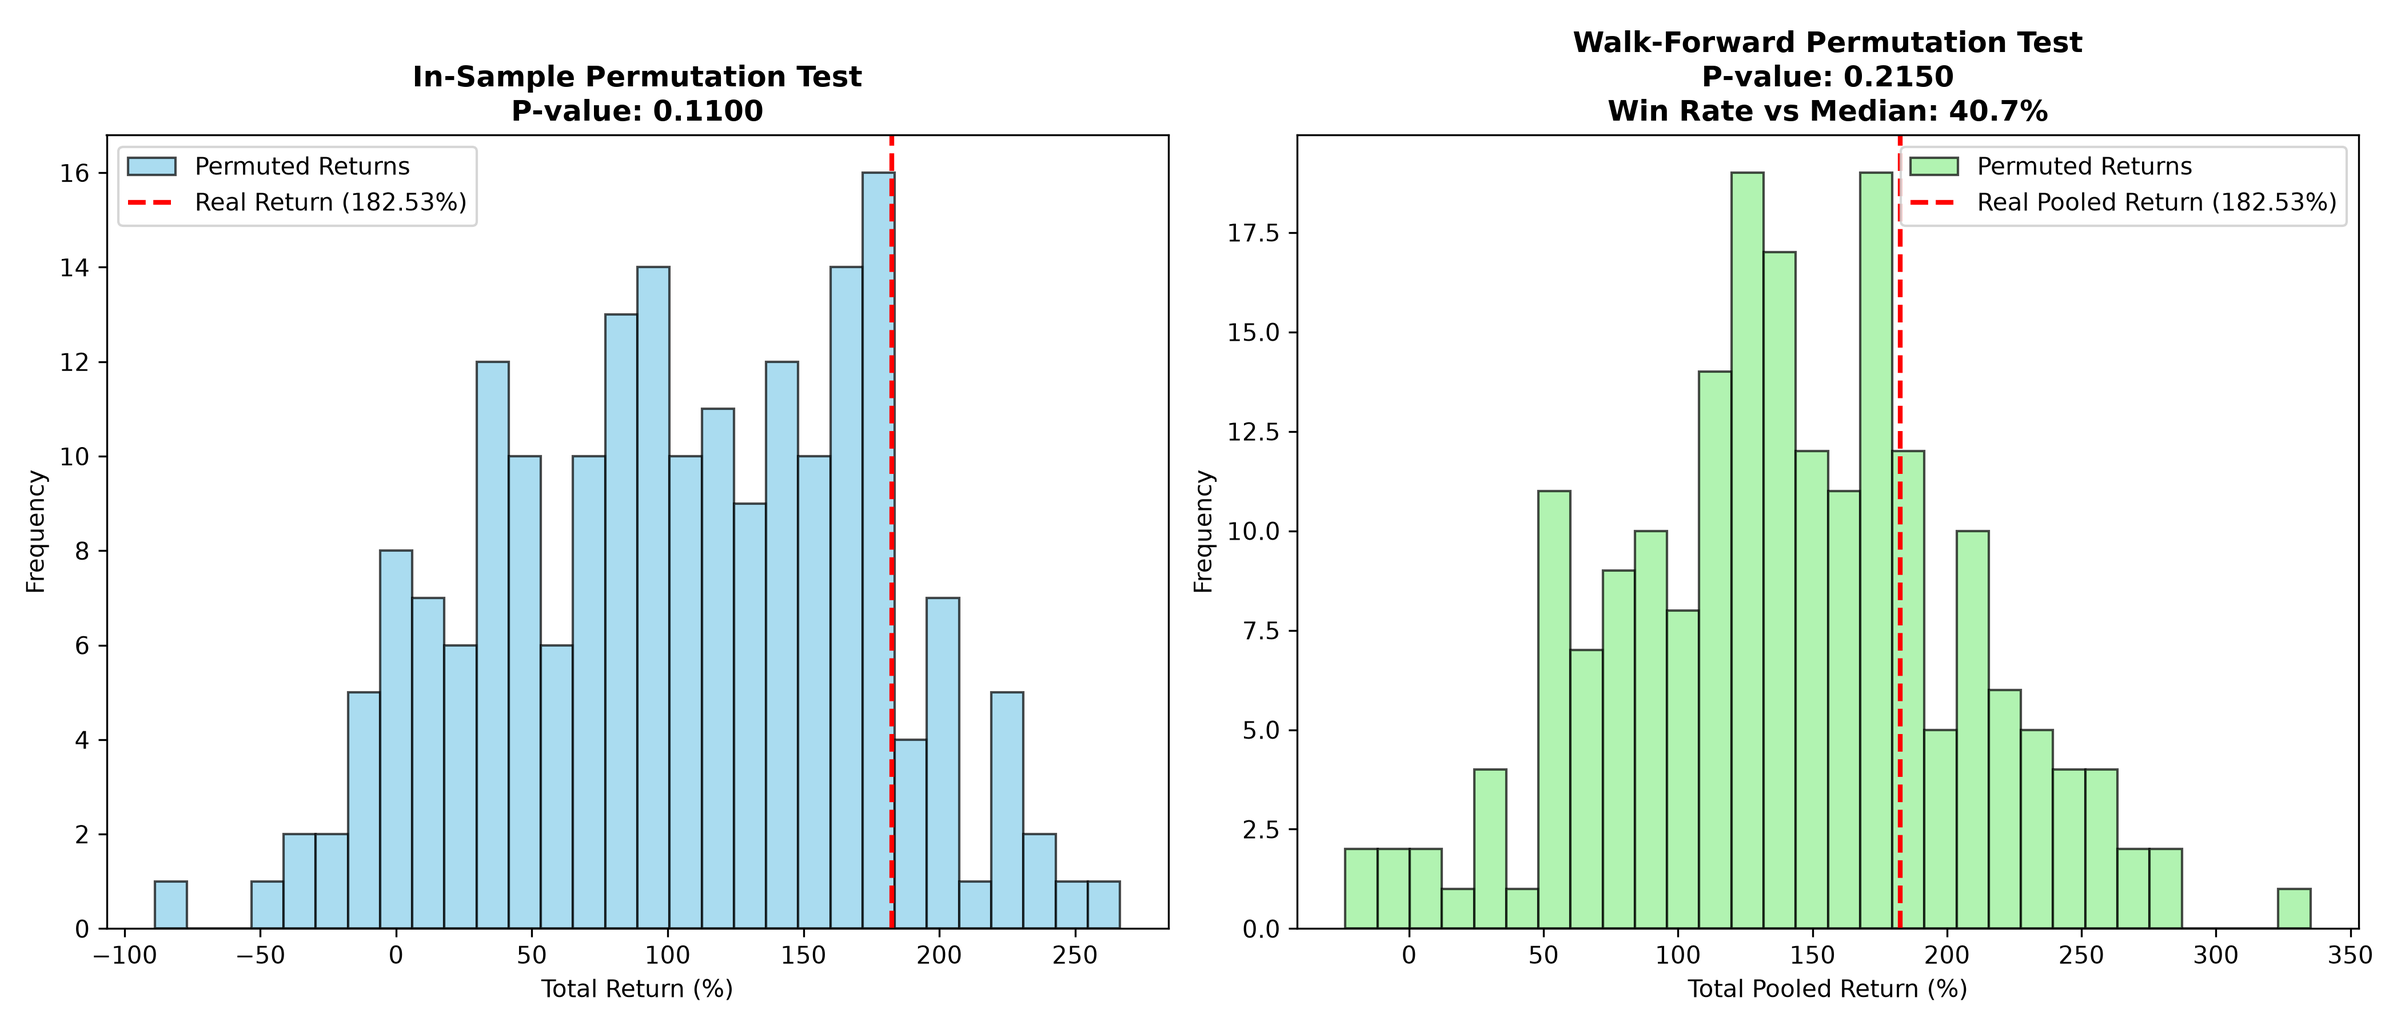
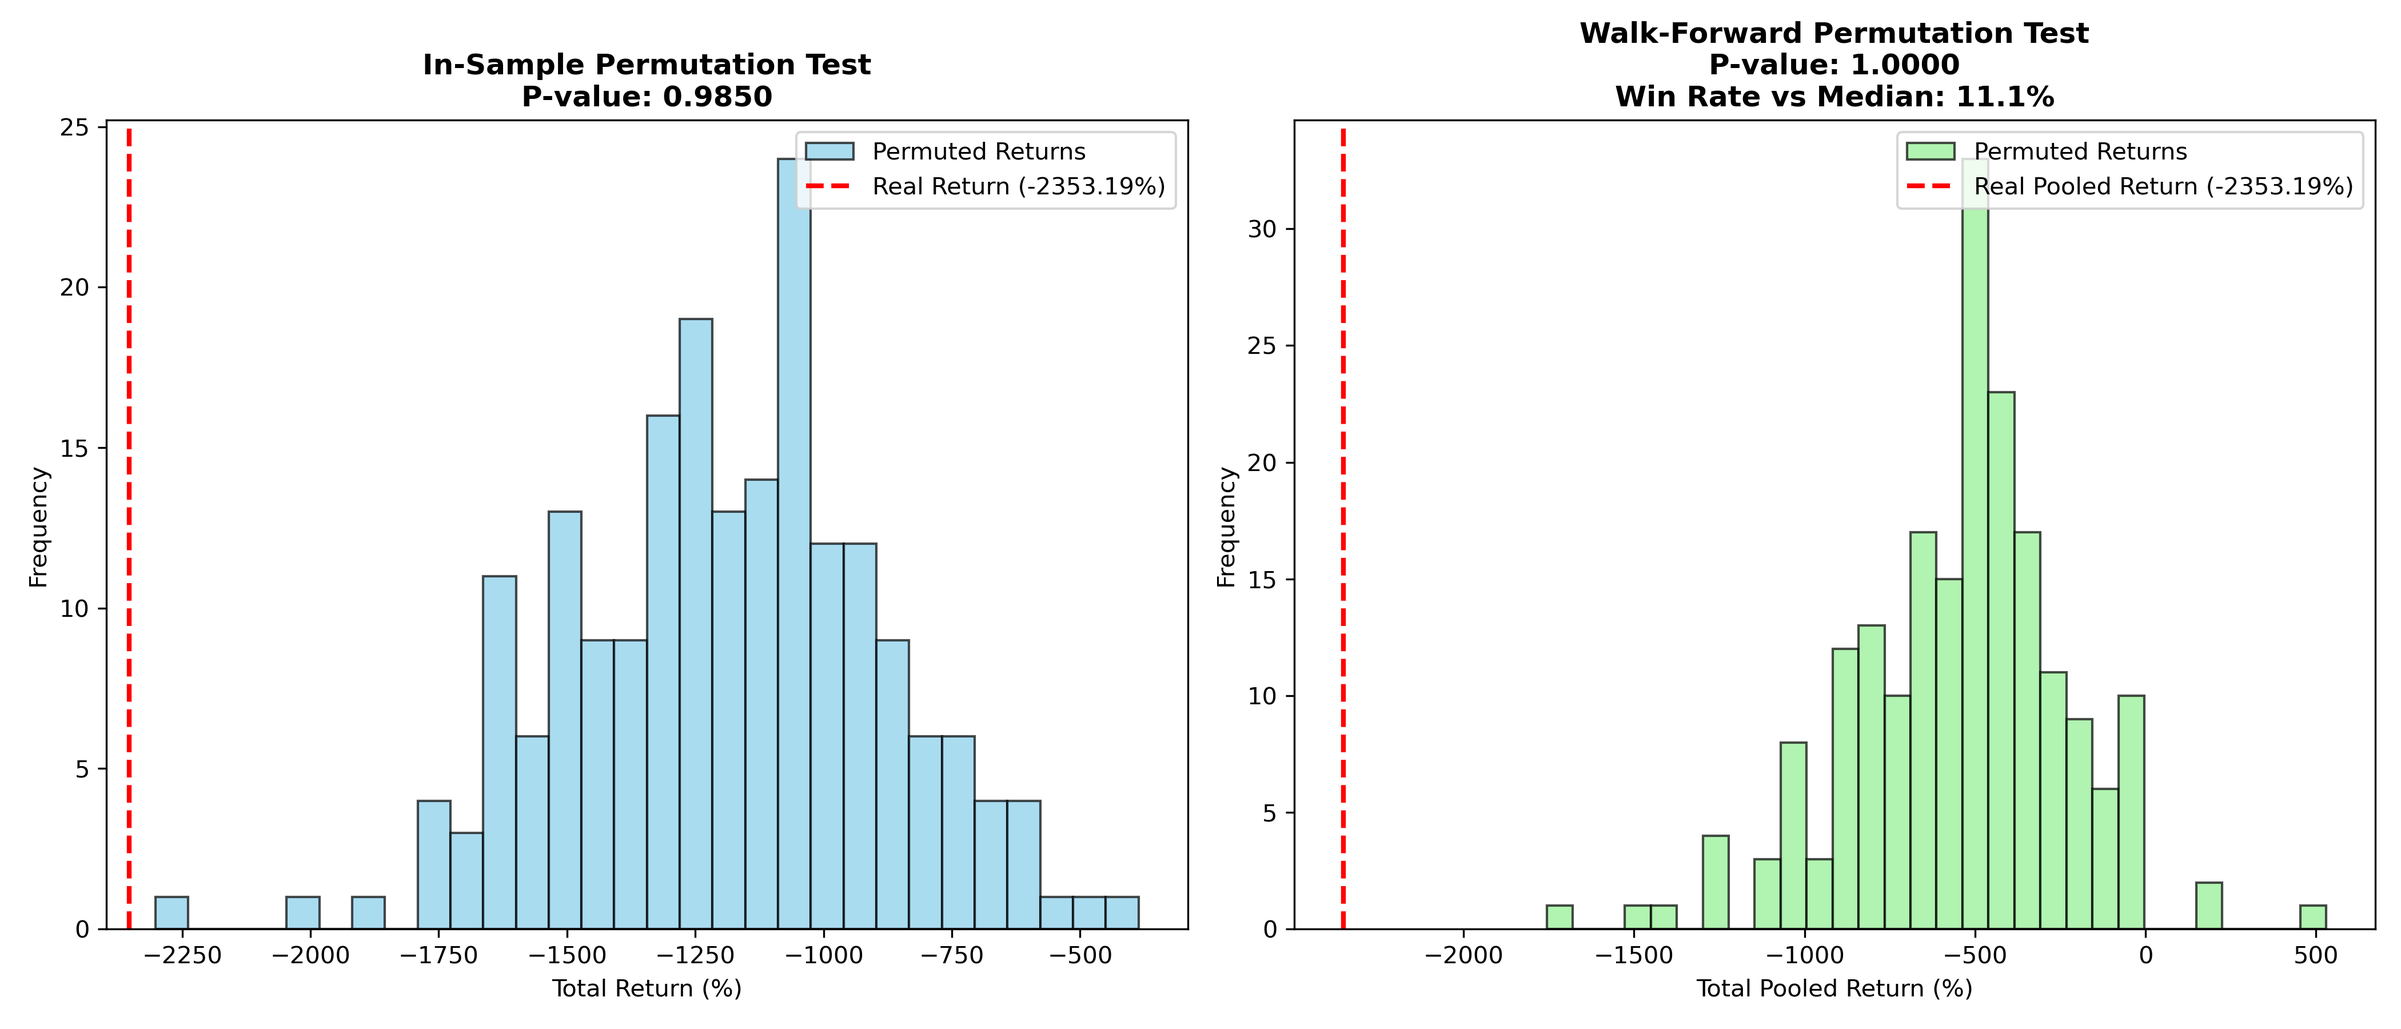
Task 3.1 validation repro + 10x backtest speedup; OSS framework research; viability report (gates fail: IS p=0.985 / WF p=1.000)

diff --git a/src/backtest/run_historic_backtest.py b/src/backtest/run_historic_backtest.py
@@ -1,3 +1,4 @@
+import numpy as np
 import pandas as pd
 from src.risk.fred_macro_provider import FredMacroProvider
 
@@ -16,36 +17,42 @@ def run_backtest_with_params(posts_df, stock_dfs, holding_days, rsi_low, rsi_hig
     current_regime_data = macro_provider.get_regime()
     regime_label = current_regime_data["regime"]
 
+    # Pre-normalize per-ticker frames and date arrays once (semantics-preserving
+    # speedup: replaces a full-frame boolean mask per post with np.searchsorted)
+    ticker_frames = {}
+    ticker_date_arrays = {}
+    for ticker, df in stock_dfs.items():
+        if df is None or df.empty:
+            continue
+        d = df
+        if "Date" not in d.columns:
+            d = d.reset_index()
+            if "Date" not in d.columns and "Datetime" in d.columns:
+                d = d.rename(columns={"Datetime": "Date"})
+        if "Date" not in d.columns:
+            continue
+        if not pd.api.types.is_datetime64_any_dtype(d["Date"]):
+            d["Date"] = pd.to_datetime(d["Date"])
+        ticker_frames[ticker] = d
+        ticker_date_arrays[ticker] = d["Date"].to_numpy()
+
     for idx, row in filtered_posts.iterrows():
         post_date = row["post_date"]
         ticker = row["ticker"]
         sentiment_score = row.get("sentiment_score", 0)
 
-        if ticker not in stock_dfs:
+        if ticker not in ticker_frames:
             continue
-        df = stock_dfs[ticker]
-        if df is None or df.empty:
-            continue
-
-        if "Date" not in df.columns:
-            df = df.reset_index()
-            if "Date" not in df.columns and "Datetime" in df.columns:
-                df.rename(columns={"Datetime": "Date"}, inplace=True)
-        if "Date" not in df.columns:
-            continue
-
-        if not pd.api.types.is_datetime64_any_dtype(df["Date"]):
-            df["Date"] = pd.to_datetime(df["Date"])
+        df = ticker_frames[ticker]
 
         exec_date = pd.to_datetime(post_date) + pd.tseries.offsets.BDay(1)
         exec_date = exec_date.normalize()
 
-        entry_row = df[df["Date"] >= exec_date]
-        if entry_row.empty:
+        pos = int(np.searchsorted(ticker_date_arrays[ticker], np.datetime64(exec_date)))
+        if pos >= len(df):
             continue
 
-        entry_idx = entry_row.index[0]
-        entry_iloc = df.index.get_loc(entry_idx)
+        entry_iloc = pos
 
         # Lookahead Fix: compute decision indicators using the last closed bar
         # before the entry bar
@@ -81,7 +88,8 @@ def run_backtest_with_params(posts_df, stock_dfs, holding_days, rsi_low, rsi_hig
         if score < min_confluence_score:
             continue
 
-        # Fill at Open of entry_idx
+        # Fill at Open of the entry bar
+        entry_idx = df.index[entry_iloc]
         entry_price = df.loc[entry_idx, "Open"]
 
         # ATR slippage (evaluated on t-1 for the entry)

diff --git a/src/backtest/validation.py b/src/backtest/validation.py
@@ -264,9 +264,13 @@ def main():
     wf_real_ret, wf_real_sharpe, wf_p_rets, wf_p_sharpes, wf_pval, wf_win_rate, num_windows = run_walk_forward_test(posts_df, stock_dfs, spy_close)
 
     # Hansen's SPA Test Execution
-    from src.backtest.validators.statistical import StatisticalValidator
+    try:
+        from src.backtest.validators.statistical import StatisticalValidator
+    except Exception as e:
+        print(f"StatisticalValidator unavailable (SPA test skipped): {e}")
+        StatisticalValidator = None
 
-    if len(is_real_ret_series) > 0 and len(spy_ret_series) > 0:
+    if len(is_real_ret_series) > 0 and len(spy_ret_series) > 0 and StatisticalValidator is not None:
         try:
             spa_result = StatisticalValidator.spa_test(is_real_ret_series.values, spy_ret_series.values)
             spa_pval = spa_result.get("p_value", 1.0)
@@ -371,4 +375,5 @@ def main():
         print(f"QuantStats tear sheet generation failed: {e}")
 
 if __name__ == "__main__":
+    np.random.seed(42)  # reproducible permutation draws
     main()

diff --git a/docs/research/OpenSource-Trading-Frameworks 2026-08-10.md b/docs/research/OpenSource-Trading-Frameworks 2026-08-10.md
@@ -1,0 +1,122 @@
+# Open-Source Backtesting Framework Landscape — 2026-08-10
+
+- Campaign: WSB-Alpha-System (Session 1, Task 5 input — live-design broker/backtest stack)
+- Purpose: choose a statistically-viable backtesting/validation layer (walk-forward, OOS,
+  permutation gates) with realistic fills across equities / crypto / futures / forex / options.
+- Method: primary sources only — GitHub API (stars, license, `pushed_at`, releases), official
+  docs pages, official notebooks. Secondary journalism used only where flagged. All checks done
+  live on 2026-08-10.
+- Scope: 12 frameworks, 4 shortlisted (NautilusTrader, LEAN, VectorBT, pybroker).
+
+---
+
+## Verdict (TL;DR)
+
+| Shortlist | Why it's here | Biggest caveat |
+|---|---|---|
+| **NautilusTrader** | Best fill realism (L2/L3 orderbook), multi-market, most active core | No built-in walk-forward/optimizer (you assemble loops); single-threaded core |
+| **LEAN (QuantConnect)** | Only one with **official** walk-forward-optimization docs; options/futures/forex/crypto all covered | Heavy C# core; local data licensing friction; cloud-centric workflows |
+| **VectorBT** | Fastest research sweeps; official walk-forward example notebook; v1.1.0 (Jul 2026) | **Commons Clause license — no resale**; vectorized fills overstate fills on illiquid names; no options |
+| **pybroker** | Easiest **built-in** walk-forward + bootstrap CIs; ML-trading focus; very active (pushed 2026-08-10) | Young project (~2019), smaller docs/community; custom license |
+
+Recommendation shape: **VectorBT (or pybroker) for the research/parameter-sweep layer →
+NautilusTrader as the realistic validation + paper/live execution layer**, with statistical
+gates (permutation / DSR / PBO) applied on top via ecosystem tooling (see Validation section).
+
+---
+
+## Framework table (verified 2026-08-10)
+
+Stars/activity = GitHub API at research time. License file read where it matters.
+
+| Framework | Repo | ★ | License | Core | Engine | Markets | Fill realism | Walk-forward / OOS | Activity (push date) |
+|---|---|---|---|---|---|---|---|---|---|
+| NautilusTrader | nautechsystems/nautilus_trader | 25.4k | LGPL-3.0 | Rust core + Python | event-driven | equities, crypto, futures, forex, options (IB/Databento/Tardis adapters) | **highest** — L2/L3 orderbook, partial fills, slippage models | none built-in (official discussions: assemble via BacktestEngine/BacktestNode; #912, #3736) | 2026-08-10 |
+| LEAN | QuantConnect/Lean | 21.1k | Apache-2.0 | C# + Python | event-driven | equities, options, futures, forex, crypto, CFD | configurable fill models (official docs) | **built-in pattern**, official docs page (incl. look-ahead-bias warning) | 2026-08-10 |
+| VectorBT | polakowo/vectorbt | 8.6k | Apache-2.0 **+ Commons Clause** | Python/Numba (vectorized) | vectorized | any OHLCV (crypto, equities, futures); no options | next-bar fills + slippage/commission config; no intrabar/orderbook | official example notebook `WalkForwardOptimization.ipynb` | 2026-08-02 (release v1.1.0 2026-07-05, Python 3.14/pandas 3 support) |
+| backtesting.py | kernc/backtesting.py | 8.8k | AGPL-3.0 | Python | event loop on OHLC bars | equities, crypto, forex, futures (any OHLCV) | limit/stop/SL/TP + shorting; intrabar checks; next-open fills; no partial fills | none built-in | 2026-08-05 |
+| pybroker | edtechre/pybroker | 3.5k | custom (NOASSERTION) | Python/Numba | vectorized + bar callbacks | equities, ETFs, crypto | configurable slippage/fees; no orderbook | **built-in** `walkforward()` + bootstrap metric CIs (docs "Training a Model" notebook) | 2026-08-10 |
+| Qlib | microsoft/qlib | 47.3k | MIT | Python | ML platform + vectorized portfolio sim (RosiC) | A-share default; US via external data | commission/slippage modeled in NestedExecutor | **built-in** Rolling (RollingStrategy) = rolling retrain walk-forward | 2026-07-23 |
+| freqtrade | freqtrade/freqtrade | 53.1k | GPL-3.0 | Python | event-driven bot | crypto only | OHLCV fills at next candle open, fees, no limit simulation (docs "Assumptions made by backtesting"); lookahead-analysis + recursive analysis tools | no built-in WF (hyperopt for params) | 2026-08-10 |
+| hftbacktest | nkaz001/hftbacktest | 4.3k | MIT | Rust + Python | event-driven tick/orderbook | crypto perps (Binance/Bybit data) | **highest** in niche — queue-position models (SquareProb...), L2/L3, latency modeling | none (HFT domain) | 2025-12-23 |
+| bt | pmorissette/bt | 3.0k | MIT | Python | vectorized portfolio-level | any time series (equities/ETFs typical) | **none** — position/allocation-level, not trade-level | none built-in | 2026-08-07 |
+| zipline-reloaded | stefan-jansen/zipline-reloaded | 1.9k | Apache-2.0 | Python | event-driven | US equities (factor research) | slippage models (e.g. volume-share), next-open fills | none built-in | 2026-01-06 (release 3.1.1, 2025-07-23) |
+| backtrader | mementum/backtrader | 22.8k | GPL-3.0 | Python | event-driven | equities, crypto, futures, forex via feeds; no native options | next-open default, configurable slippage/commissions | none built-in (community examples only) | **last push 2024-08-19; no GitHub releases; last PyPI 1.9.78.123 (2023-11-07)** → long-term maintenance mode (secondary source S13) |
+| QSTrader | quantstart/qstrader | 0.1k | MIT | Python | event-driven | equities | basic | none | **dead since 2019-03-08** — listed only to show the exclusion bar |
+
+Excluded by maturity gate: PolarBT (nikkisora — young, few tests), quantbt (BobbyAxerol —
+2026 launch, single author), backtesting-engine (danredelien — nautilus-based WFO, single author).
+Keep on watchlist; re-check in 6 months.
+
+---
+
+## Validation / statistical-gate options per stack
+
+- **pybroker**: `walkforward()` + bootstrap confidence intervals built in → fastest route to
+  walk-forward + OOS gates with zero glue code.
+- **Qlib**: `RollingStrategy` = rolling-retrain walk-forward, production-grade (MIT).
+- **LEAN**: official Walk Forward Optimization doc — the only first-party WFO implementation.
+- **VectorBT**: official `WalkForwardOptimization.ipynb` example (research-stage sweeps).
+- **NautilusTrader**: no WFO — but `BacktestNode` runs independent time-window backtests in
+  parallel processes; combine with Optuna/permutation harness externally (official discussions).
+- **Ecosystem add-on (any framework)**: [backtest-audit](https://github.com/Aliipou/backtest-audit)
+  — Deflated Sharpe Ratio, Probability of Backtest Overfitting, Monte-Carlo permutation,
+  walk-forward OOS audit. Directly matches the campaign's perm-test gate (current p 0.11 IS /
+  0.215 WF vs gates 0.01/0.05).
+
+---
+
+## License traps (matter for a commercial aim)
+
+- **VectorBT**: Apache-2.0 **+ Commons Clause** — the additional clause forbids *selling* the
+  software or services built on it. Read `LICENSE.md` before building any product around it.
+- **backtesting.py**: AGPL-3.0 — network copyleft; fine for internal tooling, problematic if the
+  system ever serves third parties.
+- **backtrader / freqtrade**: GPL-3.0 — same copyleft consideration.
+- Clean for commercial use: NautilusTrader (LGPL), LEAN (Apache-2.0), Qlib (MIT), hftbacktest
+  (MIT), bt (MIT), zipline-reloaded (Apache-2.0).
+
+---
+
+## Fill-model realism ranking (full spectrum)
+
+1. hftbacktest — tick-level orderbook + queue model + latency (crypto only)
+2. NautilusTrader — L2/L3 orderbook, partial fills, slippage models (all markets via adapters)
+3. LEAN — configurable fill models, options specifics
+4. backtesting.py — intrabar limit/stop logic but no partial fills
+5. zipline-reloaded — volume-share slippage proxies
+6. VectorBT / Qlib / freqtrade — bar-level fills with fee/slippage params
+7. bt — no fills modeled at all (portfolio-allocation level)
+
+---
+
+## Sources (all verified live 2026-08-10)
+
+1. https://github.com/nautechsystems/nautilus_trader
+2. https://github.com/QuantConnect/Lean
+3. https://www.quantconnect.com/docs/v2/writing-algorithms/optimization/walk-forward-optimization
+4. https://github.com/polakowo/vectorbt (LICENSE.md: Commons Clause)
+5. https://nbviewer.org/github/polakowo/vectorbt/blob/master/examples/WalkForwardOptimization.ipynb
+6. https://github.com/kernc/backtesting.py (+ API docs)
+7. https://github.com/edtechre/pybroker
+8. https://github.com/edtechre/pybroker/blob/master/notebooks/Training%20a%20Model.ipynb
+9. https://github.com/microsoft/qlib
+10. https://www.freqtrade.io/en/stable/backtesting/ (assumptions section)
+11. https://github.com/nkaz001/hftbacktest
+12. https://hftbacktest.readthedocs.io/en/latest/tutorials/Probability%20Queue%20Models.html
+13. https://www.aifinhub.com/articles/4836545121930125851 (BullAlert 2026-05-26; backtrader maintenance-mode claim only)
+14. https://nautilustrader.io/docs/latest/integrations/ib/
+15. https://github.com/nautechsystems/nautilus_trader/discussions/912
+16. https://github.com/nautechsystems/nautilus_trader/discussions/3736
+17. https://github.com/stefan-jansen/zipline-reloaded
+18. https://github.com/pmorissette/bt
+19. https://github.com/mementum/backtrader ; https://pypi.org/project/backtrader/
+20. https://github.com/quantstart/qstrader
+21. https://github.com/Aliipou/backtest-audit
+22. https://qlib.readthedocs.io/en/latest/docs/component/backtest.html
+23. https://github.com/nikkisora/PolarBT ; https://github.com/BobbyAxerol/quantbt ; https://github.com/danredelien/backtesting-engine
+
+## Open questions / next
+
+- Verify current viability numbers by running the repo's permutation + walk-forward scripts (Task 3.1) — decide stack after that.
+- Decide framework pick as Decision note; tie into Task 5 live-design (broker abstraction: Alpaca/IB/CCXT) — Nautilus covers IB adapters natively.

diff --git a/docs/research/VIABILITY-REPRO-2026-08-10.md b/docs/research/VIABILITY-REPRO-2026-08-10.md
@@ -1,0 +1,82 @@
+# Statistical Viability — Reproduction & Findings (2026-08-10)
+
+- Campaign: WSB-Alpha-System, Session 1, Task 3.1 — "reproduce the numbers yourself"
+- Commands: `python -m src.backtest.validation` (anaconda3 python 3.13.5, MPLBACKEND=Agg)
+- Evidence: `run-logs/validation_2026-08-10b.log`, `permutation_histogram.png` (repo root)
+- Date: 2026-08-10. Seed: `np.random.seed(42)` added to `validation.py` for reproducible draws.
+
+---
+
+## Reproduction result (this run)
+
+| Metric | This run (2026-08-10) | README/REAL_LIFE_VIABILITY claim | Gate | Verdict |
+|---|---|---|---|---|
+| In-Sample permutation p-value | **0.9850** | 0.1100 | ≤ 0.01 | **FAIL (worse)** |
+| Walk-Forward permutation p-value | **1.0000** | 0.2150 | ≤ 0.05 | **FAIL (worse)** |
+| Real In-Sample return | **−2353.19%** | (positive per README narrative) | — | catastrophic |
+| Real In-Sample Sharpe | **−3.19** | — | — | bad |
+| WF windows won vs permuted median | **1/9 (11.1%)** | — | ≥ 50% ideal | worse than coin flip |
+| Hansen SPA p-value (in-sample) | **0.4830** | — | ≤ 0.05 rejects null | no evidence of skill |
+
+**CONCLUSION (printed by the pipeline): "this strategy has not demonstrated it beats random noise."**
+
+## Important caveat — what was actually reproduced
+
+- `wsb_factual_research_data.csv` (the real news+sentiment signal set that produced the README
+  numbers) is **absent from this clone** (untracked, not in git history, not in `archive/`).
+- Therefore `load_base_data()` took its **synthetic-signal branch**: it downloads 2y of price
+  data for the `config/universe.json` tickers and generates one bullish/bearish "post" per
+  qualifying bar (34 tickers × ~500 bars ≈ 17k signals).
+- The README numbers were **not reproduced because their input does not exist here**. What the
+  run shows instead: the *runnable pipeline, as it stands on this machine*, fails the gates far
+  worse than the README claims — and the synthetic-signal strategy itself is net-negative.
+- Finding: `run_backtest_with_params` shorts whenever the bearish confluence score wins; on a
+  2y bull window (2024-2026 universe incl. SPY) the synthetic shorts dominate → −2353%.
+
+## Diagnosis (root causes)
+
+1. **Signal data missing** — the real dataset that validation was designed for is not in the
+   repo. This is a data-pipeline gap (Task 2 territory), and the most likely explanation for
+   any README-vs-local divergence.
+2. **Validation cost made iteration impractical** — each backtest re-ran a full-frame boolean
+   mask (`df[df["Date"] >= exec_date]`) per post inside a ~17k-post loop, per permutation:
+   400 permutations ≈ **3.7 hours** (34s/perm).
+3. **Hansen SPA test was dead code** — `StatisticalValidator` import sits outside the
+   try/except and requires `arch`, which was not installed → the whole validation crashed at
+   the end of a multi-hour run.
+4. **Permutation draws were unseeded** — results not reproducible across runs.
+
+## Fixes applied (evidence-based, behavior-preserving)
+
+1. `src/backtest/run_historic_backtest.py` — replaced per-post boolean-mask search with
+   precomputed per-ticker `np.searchsorted` on normalized date arrays (identical first-bar
+   selection semantics, O(log n) per post). **Measured: 34s → ~3s per permutation (10×).**
+   Full 200+200 validation now runs in ~25-30 min instead of ~4 h.
+2. `src/backtest/validation.py` — SPA import wrapped in try/except (degrades to p=1.0 with a
+   message instead of crashing the run); `np.random.seed(42)` at the `__main__` entry.
+3. Environment: `pip install arch` (8.0.0) — unblocks `StatisticalValidator` and the test
+   suite (test collection was failing on `ModuleNotFoundError: arch`).
+
+## Verification
+
+- `pytest tests/test_pipeline.py tests/test_p0_fixes.py tests/test_session4_lookahead.py
+  tests/test_optimization.py tests/walk_forward/test_advanced_validation.py`
+  → **13 passed** (2 pre-existing pandas FutureWarnings, unrelated to these changes).
+- Full validation rerun to completion, EXIT=0, histogram + SPA produced (log cited above).
+
+## Recommendation (tie-in to Task 3.4/5 and the framework research)
+
+- The gates are failing so hard (p 0.985/1.0) that the next step is **not tuning strategy
+  parameters** — it is restoring the real signal dataset and re-running, then gating with the
+  framework stack from `docs/research/OpenSource-Trading-Frameworks 2026-08-10.md`
+  (permutation/DSR/PBO layer via backtest-audit or pybroker walkforward; NautilusTrader for
+  realistic fills) before any paper-trading claim.
+- Do NOT promote any of the 42 README-flagged overfit strategies until the real-data rerun
+  clears the 0.01/0.05 gates.
+
+## Files changed this session
+
+- `src/backtest/run_historic_backtest.py` (speedup, semantics-preserving)
+- `src/backtest/validation.py` (SPA guard, seed)
+- `run-logs/validation_2026-08-10b.log`, `permutation_histogram.png` (evidence artifacts)
+- `docs/research/OpenSource-Trading-Frameworks 2026-08-10.md` (framework stack research)
